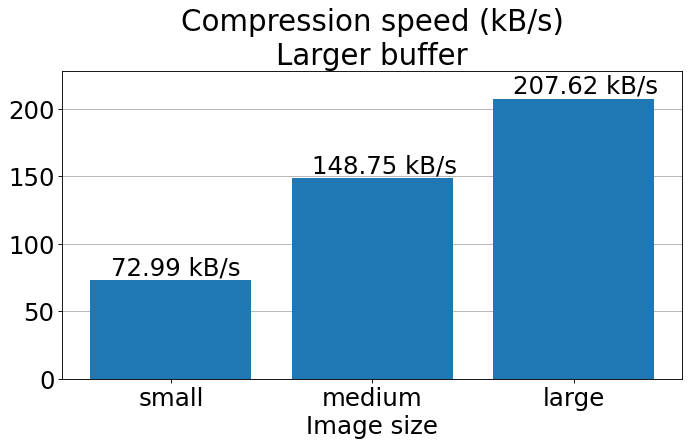
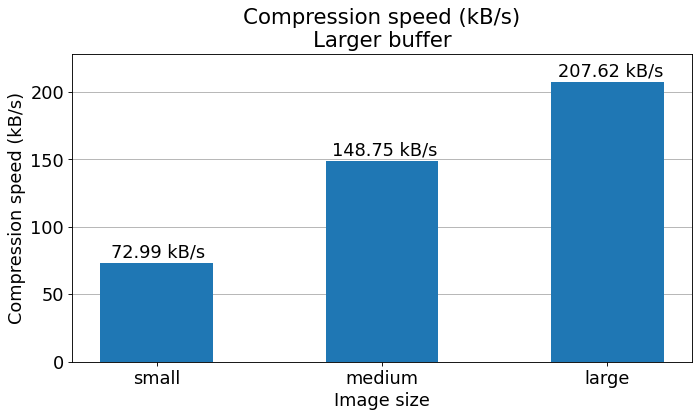
New images

Changed region(s): [[0.0, 0.0, 1.0, 0.9952]]

diff --git a/read_res.py b/read_res.py
@@ -26,7 +26,10 @@ for file_res in os.listdir("results"):
                 continue
             if colname not in use_cols:
                 use_cols.append(colname)
-            dict_vals[row_names[ix]][colname] = float(str(file_res_open[colname][ix]).replace(",", "."))
+            if "," in str(file_res_open[colname][ix]):
+                dict_vals[row_names[ix]][colname] = float(str(file_res_open[colname][ix]).replace(",", "."))
+            else:
+                dict_vals[row_names[ix]][colname] = int(str(file_res_open[colname][ix]))
 
     print(dict_vals)
  
@@ -37,23 +40,23 @@ for file_res in os.listdir("results"):
             numrows += 1
 
     plt.figure(figsize = (10, 5), dpi = 80)
-    plt.rcParams.update({'font.size': 22}) 
+    plt.rcParams.update({'font.size': 16}) 
     for ix_row in range(len(dict_vals.keys())):
         rowname = list(dict_vals.keys())[ix_row] 
         if "size" in rowname or "ratio" in rowname:
             x_vals = [i * (numrows + 1) + ix_row - int(numrows // 2) for i in range(len(list(dict_vals[rowname].values())))] 
             plt.bar(x_vals, list(dict_vals[rowname].values()), label = rowname, zorder = 2)
             for i in range(len(x_vals)):
-                if i == 0:
-                    yoff = 0.2 * max(list(dict_vals[rowname].values()))
-                else:
-                    yoff = 35
+                yoff = 0.06 * max(list(dict_vals[rowname].values()))
                 if list(dict_vals[rowname].values())[i] < 0:
                     yoff = 0.7 * max(list(dict_vals[rowname].values()))
                 add_str = " " + rowname.split("(")[-1].replace(")", "")
+                x_off = len(str(list(dict_vals[rowname].values())[i]) + add_str) / 10
+                if "before" in rowname:
+                    x_off = len(str(list(dict_vals[rowname].values())[i]) + add_str) / 7
                 if "%" in add_str:
                     add_str = "%"
-                plt.text(x_vals[i] - 1.65, list(dict_vals[rowname].values())[i] + yoff, str(list(dict_vals[rowname].values())[i]) + add_str)
+                plt.text(x_vals[i] - x_off, list(dict_vals[rowname].values())[i] + yoff, str(list(dict_vals[rowname].values())[i]) + add_str)
     
     plt.xticks([i * (numrows + 1) for i in range(len(list(dict_vals[rowname].values())))], use_cols)
 
@@ -68,10 +71,10 @@ for file_res in os.listdir("results"):
         
     plt.title(title)
     plt.xlim(-2.7, 10)
-    plt.ylim(-350, 1000)
+    plt.ylim(-350, 1050)
     plt.xlabel("Image size")
     plt.grid(axis = 'y')  
-    plt.legend(ncol = 1, loc = "upper left")
+    plt.legend(ncol = 3, loc = "upper left")
     plt.savefig("results/" + file_res.replace(".csv", "_") + "size_comparison.png", bbox_inches = "tight")
     plt.close()
     
@@ -79,13 +82,13 @@ for file_res in os.listdir("results"):
         rowname = list(dict_vals.keys())[ix_row] 
         if "time" in rowname:
             plt.figure(figsize = (10, 5), dpi = 80)
-            plt.rcParams.update({'font.size': 22}) 
+            plt.rcParams.update({'font.size': 16}) 
             x_vals = [i for i in range(len(list(dict_vals[rowname].values())))] 
-            plt.bar(x_vals, list(dict_vals[rowname].values()), label = rowname, zorder = 2)
+            plt.bar(x_vals, list(dict_vals[rowname].values()), label = rowname, zorder = 2, width = 0.5)
             for i in range(len(x_vals)):
                 yoff = 0.02 * max(list(dict_vals[rowname].values()))
                 add_str = " " + rowname.split("(")[-1].replace(")", "")
-                plt.text(x_vals[i] - 0.3, list(dict_vals[rowname].values())[i] + yoff, str(list(dict_vals[rowname].values())[i]) + add_str)
+                plt.text(x_vals[i] - len(str(list(dict_vals[rowname].values())[i]) + add_str) / 40, list(dict_vals[rowname].values())[i] + yoff, str(list(dict_vals[rowname].values())[i]) + add_str)
     
             plt.xticks([i for i in range(len(list(dict_vals[rowname].values())))], use_cols)
 
@@ -98,6 +101,7 @@ for file_res in os.listdir("results"):
             if "with_" not in file_res:
                 title += "No BWT"
                 
+            plt.ylabel(rowname.capitalize())
             plt.title(title)
             plt.ylim(0, max(list(dict_vals[rowname].values())) * 1.1)
             plt.xlabel("Image size")
@@ -112,13 +116,13 @@ for file_res in os.listdir("results"):
         print(s, cs_vals[s])
 
     plt.figure(figsize = (10, 5), dpi = 80)
-    plt.rcParams.update({'font.size': 22}) 
+    plt.rcParams.update({'font.size': 16}) 
     x_vals = [i for i in range(len(list(cs_vals.values())))] 
-    plt.bar(x_vals, list(cs_vals.values()), label = rowname, zorder = 2)
+    plt.bar(x_vals, list(cs_vals.values()), label = rowname, zorder = 2, width = 0.5)
     for i in range(len(x_vals)):
         yoff = 0.02 * max(list(cs_vals.values()))
         add_str = " kB/s"
-        plt.text(x_vals[i] - 0.3, list(cs_vals.values())[i] + yoff, str(list(cs_vals.values())[i]) + add_str)
+        plt.text(x_vals[i] - len(str(list(cs_vals.values())[i]) + add_str) / 50, list(cs_vals.values())[i] + yoff, str(list(cs_vals.values())[i]) + add_str)
 
     plt.xticks([i for i in range(len(cs_vals.values()))], use_cols)
 
@@ -131,6 +135,7 @@ for file_res in os.listdir("results"):
     if "with_" not in file_res:
         title += "No BWT"
         
+    plt.ylabel("Compression speed (kB/s)")
     plt.title(title)
     plt.ylim(0, max(list(cs_vals.values())) * 1.1)
     plt.xlabel("Image size")
@@ -145,13 +150,13 @@ for file_res in os.listdir("results"):
         print(s, ds_vals[s])
 
     plt.figure(figsize = (10, 5), dpi = 80)
-    plt.rcParams.update({'font.size': 22}) 
+    plt.rcParams.update({'font.size': 16}) 
     x_vals = [i for i in range(len(list(ds_vals.values())))] 
-    plt.bar(x_vals, list(ds_vals.values()), label = rowname, zorder = 2)
+    plt.bar(x_vals, list(ds_vals.values()), label = rowname, zorder = 2, width = 0.5)
     for i in range(len(x_vals)):
         yoff = 0.02 * max(list(ds_vals.values()))
         add_str = " kB/s"
-        plt.text(x_vals[i] - 0.3, list(ds_vals.values())[i] + yoff, str(list(ds_vals.values())[i]) + add_str)
+        plt.text(x_vals[i] - len(str(list(ds_vals.values())[i]) + add_str) / 50, list(ds_vals.values())[i] + yoff, str(list(ds_vals.values())[i]) + add_str)
 
     plt.xticks([i for i in range(len(ds_vals.values()))], use_cols)
 
@@ -164,6 +169,7 @@ for file_res in os.listdir("results"):
     if "with_" not in file_res:
         title += "No BWT"
         
+    plt.ylabel("Decompression speed (kB/s)")
     plt.title(title)
     plt.ylim(0, max(list(ds_vals.values())) * 1.1)
     plt.xlabel("Image size")
